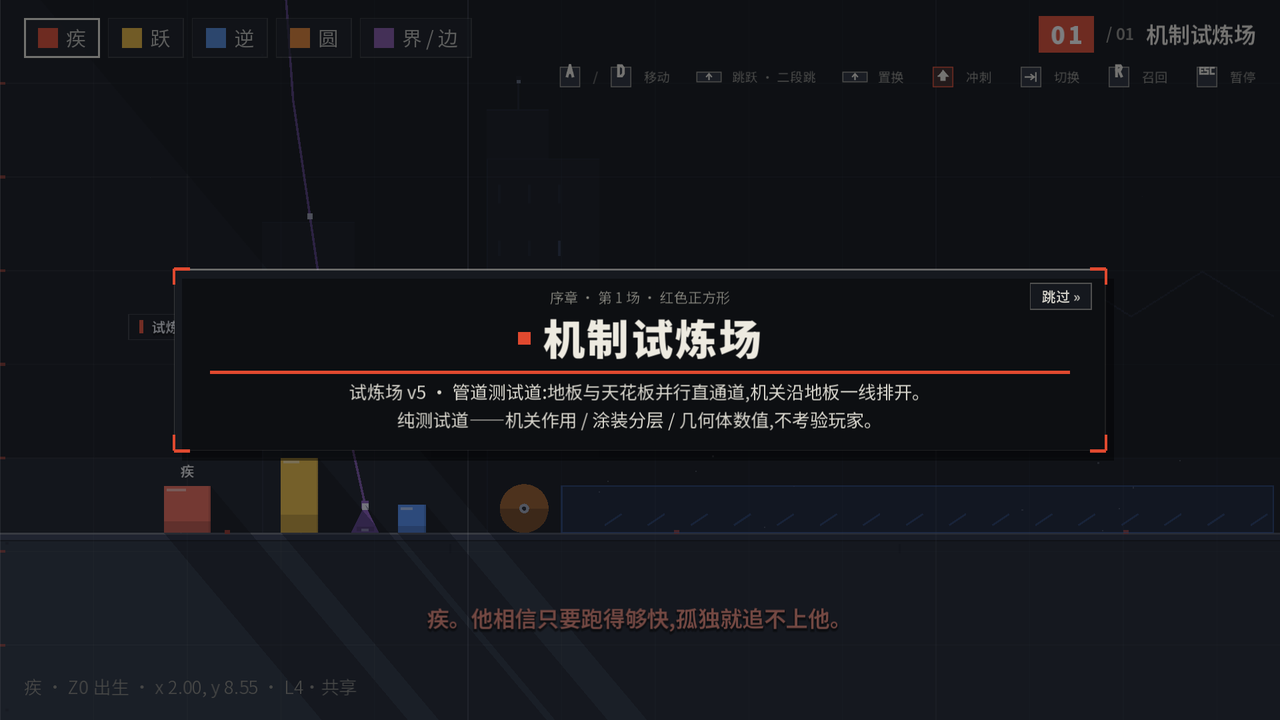
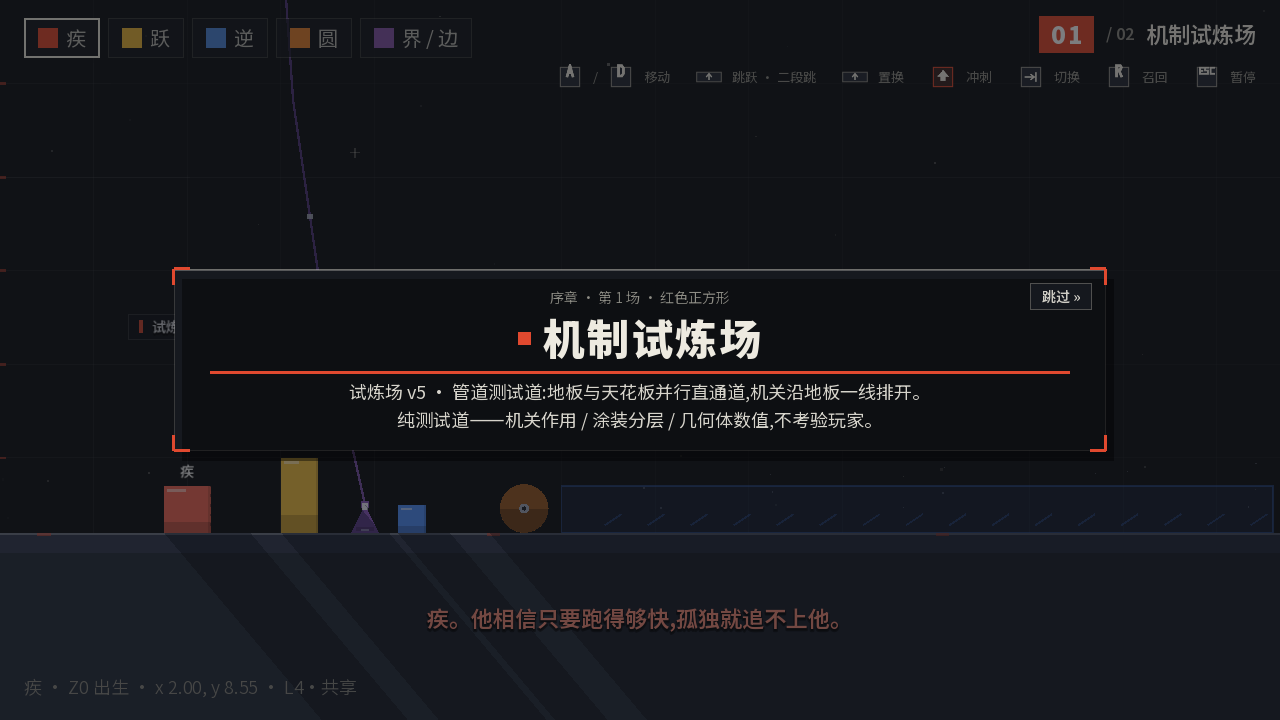
修复:HUD chips/提示条域拆回引缺失静默失效(v0.42.2,UI 全量走查批捕获)— 【回归】HudChips/HudHints 的 hud 回引 v0.39.4 域拆时漏赋值——①队伍 chips 与按键提示条全平台静默消失四批 ②start_level 链在 set_level_info 处中断(_nil 访问)致 reveal/受控切换未执行→introshot/dualshot 分镜全黑【修复】Hud._ready 接线 chips.hud/hints.hud=self;回归防线=两构建器入口 assert(回引未接 debug 构建必炸)【门禁盲区教训】域拆分必须验证拆出物

diff --git a/CHANGELOG.md b/CHANGELOG.md
@@ -19,6 +19,19 @@
 ### 门禁
 - 改动脚本 check-only 全绿(main / game_flow)/ gridcheck PASS 无新违例 / reach_check 36 关 ALL PASS / recalltest / dualtest / nettest / autotest 全 PASS(明细见提交说明)。
 
+## v0.42.2(2026-09-14)
+
+> **修复:HUD chips / 提示条域拆回引缺失导致的静默失效(v0.39.4 引入回归)**。UI 全量走查批(截图每页)捕获。
+
+### 修复
+- **HudChips / HudHints 的 `hud` 回引从未赋值**(v0.39.4 hud 域拆时漏接线)——后果:①队伍 chips 与按键提示条在**全平台静默消失**四批(v0.39.4–v0.42.1);②start_level 链在 set_level_info 处中断(_nil 访问),reveal/受控切换未执行→**introshot/dualshot 分镜全黑**。
+- 修复 = Hud._ready 接线 `chips.hud = self; hints.hud = self`;**回归防线** = 两构建器入口 assert(回引未接即断,debug 构建必炸不再静默)。
+- 门禁盲区教训入档:域拆分必须验证**拆出物的可见产物**(截图含 chips/提示条),「不炸」≠「在」;recalltest/dualtest 判定不含 chips 节点存在性——已由 assert 防线 + 截图目检补位。
+
+### 验证
+- introshot/dualshot 复跑零脚本错,intro 图实拍 chips 五枚 + 键位提示条回归;
+- **真机 K60 重装复验**:chips 四枚 + 触屏提示条(轮盘/右半屏点按话术)真机回归实锤(截图 .shots/dev_v422_play.png)。
+
 ## v0.42.1(2026-09-14)
 
 > **散项清账:摩擦行钩子 + ROADMAP §5 核对 + UI 图册刷新**。

diff --git a/README.md b/README.md
@@ -12,7 +12,7 @@
 + **第一幕「各自的路上」六场**(疾速 / 弹阶 / 对面 / 坡道 / 双生阶 / 合演)
 + **肉鸽模式「重跑 RE-RUN」**(四位主角各一条三章节目链)。
 
-当前版本 **v0.42.1**(唯一来源 `scripts/core/version.gd`,变更明细见 [CHANGELOG.md](CHANGELOG.md))。
+当前版本 **v0.42.2**(唯一来源 `scripts/core/version.gd`,变更明细见 [CHANGELOG.md](CHANGELOG.md))。
 
 ## 预览
 
